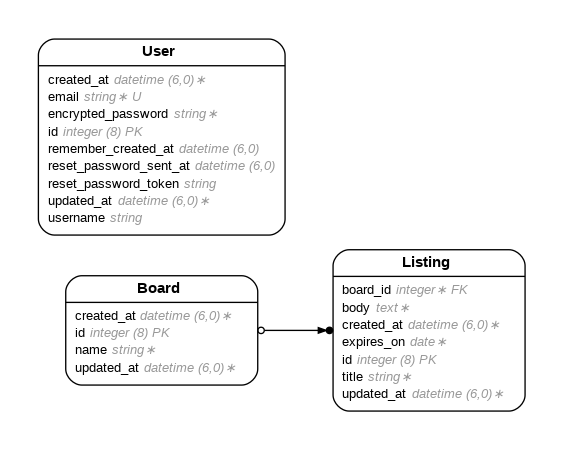
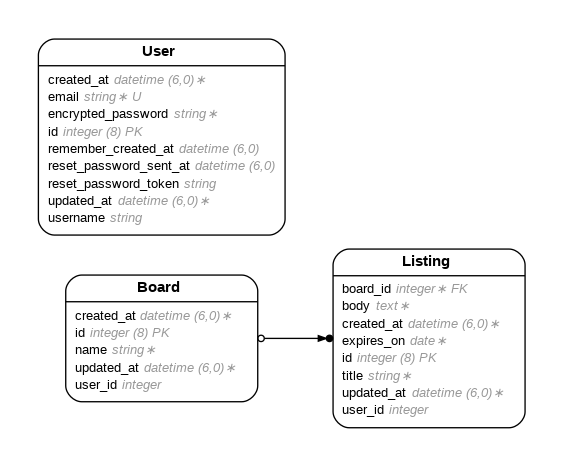
added user_id to tables

Changed region(s): [[0.0604, 0.0622, 0.5133, 0.5289], [0.4529, 0.5289, 0.9361, 0.9333], [0.0906, 0.56, 0.4831, 0.8711]]

diff --git a/db/schema.rb b/db/schema.rb
@@ -10,7 +10,7 @@
 #
 # It's strongly recommended that you check this file into your version control system.
 
-ActiveRecord::Schema[8.0].define(version: 2025_09_24_195251) do
+ActiveRecord::Schema[8.0].define(version: 2025_09_24_202410) do
   # These are extensions that must be enabled in order to support this database
   enable_extension "pg_catalog.plpgsql"
 
@@ -18,6 +18,7 @@ ActiveRecord::Schema[8.0].define(version: 2025_09_24_195251) do
     t.string "name"
     t.datetime "created_at", null: false
     t.datetime "updated_at", null: false
+    t.integer "user_id"
   end
 
   create_table "listings", force: :cascade do |t|
@@ -27,6 +28,7 @@ ActiveRecord::Schema[8.0].define(version: 2025_09_24_195251) do
     t.integer "board_id"
     t.datetime "created_at", null: false
     t.datetime "updated_at", null: false
+    t.integer "user_id"
   end
 
   create_table "solid_cable_messages", force: :cascade do |t|

diff --git a/app/models/listing.rb b/app/models/listing.rb
@@ -9,6 +9,7 @@
 #  created_at :datetime         not null
 #  updated_at :datetime         not null
 #  board_id   :integer
+#  user_id    :integer
 #
 class Listing < ApplicationRecord
   belongs_to :board, class_name: "Board", foreign_key: "board_id"

diff --git a/app/models/board.rb b/app/models/board.rb
@@ -6,6 +6,7 @@
 #  name       :string
 #  created_at :datetime         not null
 #  updated_at :datetime         not null
+#  user_id    :integer
 #
 class Board < ApplicationRecord
   validates :name, presence: true
